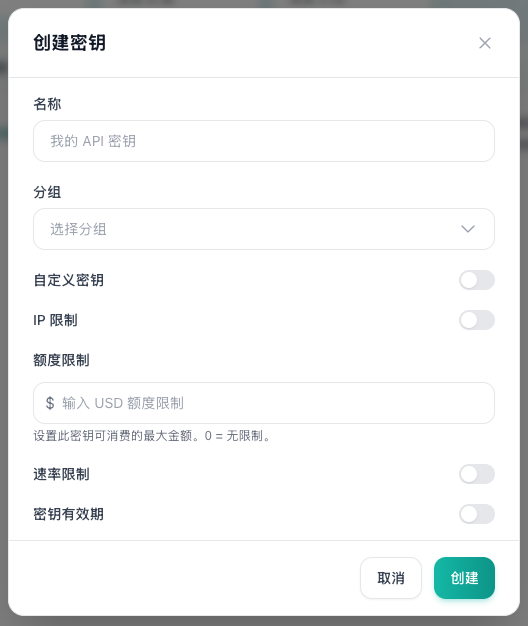
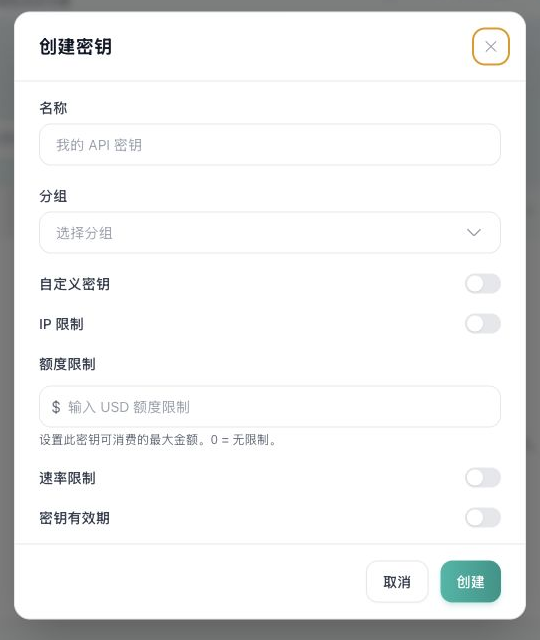
dd

diff --git a/frontend/public/user-manual/index.html b/frontend/public/user-manual/index.html
@@ -620,6 +620,7 @@
       <nav class="primary-nav" aria-label="主导航">
         <a class="nav-link" href="#overview">首页</a>
         <a class="nav-link" href="#login" aria-current="page">登录</a>
+        <a class="nav-link" href="#register">注册</a>
         <a class="nav-link" href="#tools">工具配置</a>
         <a class="nav-link" href="#code">代码调用</a>
       </nav>
@@ -633,6 +634,7 @@
       <nav class="section-nav" aria-label="页面分类">
         <a href="#overview" aria-current="page">概览</a>
         <a href="#login">登录</a>
+        <a href="#register">注册</a>
         <a href="#key">密钥</a>
         <a href="#base-url">Base URL</a>
         <a href="#windows">Windows</a>
@@ -653,6 +655,7 @@
       <h2>开始使用</h2>
       <a class="active" href="#overview">一眼看懂 LLMFerry</a>
       <a href="#login">登录控制台</a>
+      <a href="#register">注册账号</a>
       <a href="#key">创建和复制 API Key</a>
       <h2>工具配置</h2>
       <a href="#base-url">Base URL 怎么填</a>
@@ -695,7 +698,7 @@
             </div>
             <div class="quick-card">
               <strong>优先测试模型</strong>
-              <span>先用管理员指定模型；没有指定时可先尝试 <code>gpt-5.5</code>。</span>
+              <span>先用销售提供的模型；没有明确说明时可先尝试 <code>gpt-5.5</code>。</span>
             </div>
           </div>
 
@@ -705,26 +708,25 @@
           </div>
 
           <figure>
-            <img src="/user-manual/assets/llmferry-01-home.png" alt="LLMFerry 首页：简链服务、立即开始按钮和已支持模型列表">
+            <img src="assets/llmferry-01-home.png" alt="LLMFerry 首页：简链服务、立即开始按钮和功能标签">
             <figcaption>LLMFerry 首页：确认进入的是“简链服务”站点。</figcaption>
           </figure>
         </section>
 
         <section id="login">
           <h2>登录 LLMFerry</h2>
-          <p>普通用户进入控制台后，主要关注「API 密钥」「使用记录」「渠道状态」「我的订阅」等个人使用菜单。管理员菜单不用操作。</p>
+          <p>普通用户进入控制台后，主要关注左侧「我的账户」下面的「API 密钥」「使用记录」「渠道状态」「我的订阅」等个人使用菜单。</p>
 
           <dl class="response-preview">
             <dt>登录地址</dt><dd id="login-url">https://www.llmferry.com/home</dd>
-            <dt>账号</dt><dd id="login-account">admin@sub2api.local</dd>
-            <dt>密码</dt><dd id="login-password">LS123xzhmu</dd>
+            <dt>账号</dt><dd>使用自己注册的邮箱，或由您的销售协助开通的账号</dd>
+            <dt>密码</dt><dd>使用自己设置的密码；手册不提供公共密码</dd>
+            <dt>注册入口</dt><dd>登录页底部点击「还没有账户？注册」</dd>
             <dt>站点名称</dt><dd>简链服务</dd>
           </dl>
 
           <div class="toc-tools copy-row">
             <button class="copy-button" type="button" data-copy-target="login-url">复制地址</button>
-            <button class="copy-button" type="button" data-copy-target="login-account">复制账号</button>
-            <button class="copy-button" type="button" data-copy-target="login-password">复制密码</button>
           </div>
 
           <div class="steps">
@@ -733,8 +735,12 @@
               <p>在浏览器访问 <code>https://www.llmferry.com/home</code>。如果页面没有自动跳到登录页，点击右上角「登录」。</p>
             </div>
             <div class="step">
-              <h3>输入账号密码</h3>
-              <p>使用管理员提供的账号登录。正式给客户使用时，建议换成每位用户自己的企业账号。</p>
+              <h3>没有账号先注册</h3>
+              <p>在登录页底部点击「还没有账户？注册」。具体填写方式见下一节「注册账号」。</p>
+            </div>
+            <div class="step">
+              <h3>已有账号直接登录</h3>
+              <p>使用自己注册的邮箱和密码登录。不要使用他人的账号，也不要多人共用同一个账号。</p>
             </div>
             <div class="step">
               <h3>找到个人菜单</h3>
@@ -743,13 +749,63 @@
           </div>
 
           <div class="callout">
-            <strong>给客户发正式版前先确认账号策略</strong>
-            <p>如果这个账号只用于演示或培训，请不要把它长期公开到客户群；正式环境建议让客户使用企业邮箱或单独账号登录。</p>
+            <strong>不要共享账号</strong>
+            <p>每位用户都应使用自己的账号登录，便于密钥、用量和费用独立管理。如果注册失败或看不到注册入口，请联系您的销售协助开通。</p>
           </div>
 
           <figure>
-            <img src="/user-manual/assets/llmferry-02-login.png" alt="LLMFerry 登录页：输入邮箱和密码后点击登录">
-            <figcaption>登录页：输入企业邮箱和密码，点击「登录」。</figcaption>
+            <img src="assets/llmferry-02-login.png" alt="LLMFerry 登录页：输入邮箱和密码后点击登录">
+            <figcaption>登录页：已有账号直接登录；没有账号时点击底部「注册」。</figcaption>
+          </figure>
+        </section>
+
+        <section id="register">
+          <h2>注册账号</h2>
+          <p>如果还没有自己的 LLMFerry 账号，先从登录页进入注册页。注册时只填写个人或企业邮箱和自己设置的密码；优惠码没有则留空。</p>
+
+          <dl class="response-preview">
+            <dt>注册入口</dt><dd>登录页底部点击「还没有账户？注册」</dd>
+            <dt>直接地址</dt><dd id="register-url">https://www.llmferry.com/register</dd>
+            <dt>邮箱</dt><dd>建议使用常用邮箱，便于后续识别账号和处理服务开通</dd>
+            <dt>密码</dt><dd>自己设置并妥善保存，页面要求至少 6 个字符</dd>
+            <dt>优惠码</dt><dd>可选；销售没有单独提供时，直接留空</dd>
+          </dl>
+
+          <div class="toc-tools copy-row">
+            <button class="copy-button" type="button" data-copy-target="register-url">复制注册地址</button>
+          </div>
+
+          <div class="steps">
+            <div class="step">
+              <h3>进入注册页</h3>
+              <p>打开 <code>https://www.llmferry.com/home</code>，在登录页底部点击「还没有账户？注册」。也可以直接访问 <code>https://www.llmferry.com/register</code>。</p>
+            </div>
+            <div class="step">
+              <h3>填写邮箱</h3>
+              <p>在「邮箱」输入框填写自己的常用邮箱。不要填写他人的邮箱，也不要多人共用同一个邮箱账号。</p>
+            </div>
+            <div class="step">
+              <h3>设置密码</h3>
+              <p>在「密码」输入框设置自己的登录密码。密码至少 6 个字符，建议不要和其他系统使用完全相同的密码。</p>
+            </div>
+            <div class="step">
+              <h3>优惠码没有就留空</h3>
+              <p>「优惠码」是可选项。只有您的销售明确给了优惠码时才填写；没有拿到优惠码时，保持空白即可。</p>
+            </div>
+            <div class="step">
+              <h3>创建账户并登录</h3>
+              <p>点击「创建账户」。注册成功后回到登录页，用刚才填写的邮箱和密码登录控制台。</p>
+            </div>
+          </div>
+
+          <div class="callout">
+            <strong>注册失败怎么办</strong>
+            <p>如果看不到注册入口、注册失败、提示邮箱不可用，或登录后看不到「API 密钥」菜单，请联系您的销售协助开通账号或确认权限。</p>
+          </div>
+
+          <figure>
+            <img src="assets/llmferry-03-register.png" alt="LLMFerry 注册页：填写邮箱、密码和可选优惠码后创建账户">
+            <figcaption>注册页：填写自己的邮箱和密码；优惠码没有则留空。</figcaption>
           </figure>
         </section>
 
@@ -760,11 +816,11 @@
           <div class="steps">
             <div class="step">
               <h3>进入 API 密钥页面</h3>
-              <p>登录后，在左侧菜单找到「API 密钥」。如果看不到，请联系管理员确认账号权限或套餐分组。</p>
+              <p>登录后，在左侧「我的账户」区域找到「API 密钥」。如果看不到，请联系您的销售确认账号开通、套餐或分组。</p>
             </div>
             <div class="step">
               <h3>点击创建密钥</h3>
-              <p>名称写清楚用途；分组选择管理员指定的分组；普通用户通常不用开启「自定义密钥」。</p>
+              <p>名称写清楚用途；分组选择页面可用的分组。如果不确定选哪个分组，请联系您的销售确认。普通用户通常不用开启「自定义密钥」。</p>
             </div>
             <div class="step">
               <h3>复制 sk- 开头的密钥</h3>
@@ -779,13 +835,13 @@
           <div class="figure-grid">
             <div class="figure-card">
               <figure>
-                <img src="/user-manual/assets/llmferry-03-api-key-page.png" alt="LLMFerry API 密钥页面：左侧进入 API 密钥，右上角创建密钥">
-                <figcaption>API 密钥页面：入口和创建按钮位置示意。</figcaption>
+                <img src="assets/llmferry-03-api-key-page.png" alt="LLMFerry API 密钥页面：普通用户侧栏、空状态和创建密钥按钮">
+                <figcaption>普通用户 API 密钥页面：没有密钥时会看到空状态，可点击右上角或页面中间的「创建密钥」。</figcaption>
               </figure>
             </div>
             <div class="figure-card">
               <figure>
-                <img src="/user-manual/assets/llmferry-04-create-key-modal.png" alt="LLMFerry 创建密钥弹窗：填写名称、选择分组和配置限制">
+                <img src="assets/llmferry-04-create-key-modal.png" alt="LLMFerry 创建密钥弹窗：填写名称、选择分组和配置限制">
                 <figcaption>创建密钥：重点确认名称、分组、额度和有效期。</figcaption>
               </figure>
             </div>
@@ -830,7 +886,7 @@
             <dt>Provider</dt><dd>OpenAI Compatible / OpenAI 兼容</dd>
             <dt>API Key</dt><dd>粘贴你的 sk-... 密钥</dd>
             <dt>Base URL</dt><dd>https://www.llmferry.com/v1</dd>
-            <dt>Model</dt><dd>先填管理员指定模型；没有指定时先试 gpt-5.5</dd>
+            <dt>Model</dt><dd>先填销售提供的模型；没有明确说明时先试 gpt-5.5</dd>
             <dt>测试问题</dt><dd>Reply with exactly: pong</dd>
           </dl>
 
@@ -838,7 +894,7 @@
           <p>在「API 密钥」页面找到密钥，点击「使用密钥」，选择 Codex CLI 和 Windows。按页面提示复制到下面两个文件。</p>
 
           <figure>
-            <img src="/user-manual/assets/llmferry-06-use-key-modal-windows.png" alt="LLMFerry 使用 API 密钥弹窗：Windows 配置示例">
+            <img src="assets/llmferry-06-use-key-modal-windows.png" alt="LLMFerry 使用 API 密钥弹窗：Windows 配置示例">
             <figcaption>使用 API 密钥弹窗：Windows 用户选择「Windows」后复制对应配置。</figcaption>
           </figure>
 
@@ -904,7 +960,7 @@ $env:CLAUDE_CODE_ATTRIBUTION_HEADER = "0"</code></pre>
             <dt>Provider</dt><dd>OpenAI Compatible / OpenAI 兼容</dd>
             <dt>API Key</dt><dd>粘贴你的 sk-... 密钥</dd>
             <dt>Base URL</dt><dd>https://www.llmferry.com/v1</dd>
-            <dt>Model</dt><dd>先填管理员指定模型；没有指定时先试 gpt-5.5</dd>
+            <dt>Model</dt><dd>先填销售提供的模型；没有明确说明时先试 gpt-5.5</dd>
             <dt>测试问题</dt><dd>Reply with exactly: pong</dd>
           </dl>
 
@@ -912,7 +968,7 @@ $env:CLAUDE_CODE_ATTRIBUTION_HEADER = "0"</code></pre>
           <p>在「API 密钥」页面点击「使用密钥」，选择 Codex CLI 和 macOS / Linux。配置目录是 <code>~/.codex</code>；如果文件夹不存在，先运行 <code>mkdir -p ~/.codex</code>。</p>
 
           <figure>
-            <img src="/user-manual/assets/llmferry-05-use-key-modal-macos.png" alt="LLMFerry 使用 API 密钥弹窗：macOS 和 Linux 配置示例">
+            <img src="assets/llmferry-05-use-key-modal-macos.png" alt="LLMFerry 使用 API 密钥弹窗：macOS 和 Linux 配置示例">
             <figcaption>使用 API 密钥弹窗：macOS 用户选择「macOS / Linux」后复制对应配置。</figcaption>
           </figure>
 
@@ -946,7 +1002,7 @@ goals = true</code></pre>
           <p>Finder 打开配置目录：按 <code>Command + Shift + G</code>，输入 <code>~/.codex</code>。</p>
 
           <h3>方式 C：Claude Code / CC Switch</h3>
-          <p>macOS 用户也推荐优先用 CC Switch。供应商名称填 <code>LLMFerry</code>，Base URL 填 <code>https://www.llmferry.com/</code>，模型映射按管理员要求填写。</p>
+          <p>macOS 用户也推荐优先用 CC Switch。供应商名称填 <code>LLMFerry</code>，Base URL 填 <code>https://www.llmferry.com/</code>，模型映射按销售提供的说明填写。</p>
 
           <div class="code-block">
             <div class="code-caption"><span>macOS 终端临时生效</span><button class="copy-button" type="button" data-copy-target="code-mac-claude-env">复制</button></div>
@@ -983,7 +1039,7 @@ export CLAUDE_CODE_ATTRIBUTION_HEADER=0</code></pre>
             </div>
             <div class="step">
               <h3>使用 Claude Code</h3>
-              <p>优先用 CC Switch；管理员要求手动配置时，再写环境变量或 <code>settings.json</code>。</p>
+              <p>优先用 CC Switch；如果销售提供的说明要求手动配置，再写环境变量或 <code>settings.json</code>。</p>
             </div>
           </div>
         </section>
@@ -995,7 +1051,7 @@ export CLAUDE_CODE_ATTRIBUTION_HEADER=0</code></pre>
           <dl class="response-preview">
             <dt>API Key</dt><dd>你的 sk-... 密钥</dd>
             <dt>Base URL</dt><dd>https://www.llmferry.com/v1</dd>
-            <dt>模型</dt><dd>管理员指定模型，或先用 gpt-5.5 测试</dd>
+            <dt>模型</dt><dd>销售提供的模型，或先用 gpt-5.5 测试</dd>
             <dt>协议</dt><dd>OpenAI 兼容接口</dd>
           </dl>
 
@@ -1080,7 +1136,7 @@ $env:OPENAI_BASE_URL = "https://www.llmferry.com/v1"</code></pre>
 
         <section id="usage">
           <h2>查看用量和费用</h2>
-          <p>配置成功后，回到控制台的「使用记录」查看每次调用的模型、时间、Token 和费用。如果发现异常高用量，先禁用对应 API Key，再联系管理员排查。</p>
+          <p>配置成功后，回到控制台的「使用记录」查看每次调用的模型、时间、Token 和费用。如果发现异常高用量，先禁用对应 API Key，再联系您的销售协助确认。</p>
         </section>
 
         <section id="faq">
@@ -1088,9 +1144,9 @@ $env:OPENAI_BASE_URL = "https://www.llmferry.com/v1"</code></pre>
           <dl class="response-preview">
             <dt>401</dt><dd>API Key 没填、填错、复制少字符，或认证格式不对。重新复制完整 sk-... 再试。</dd>
             <dt>404</dt><dd>Base URL 或模型名写错。OpenAI 兼容场景要用 https://www.llmferry.com/v1。</dd>
-            <dt>429</dt><dd>请求太频繁或额度受限。稍等再试，或联系管理员调整额度、并发或速率限制。</dd>
-            <dt>5xx</dt><dd>服务临时异常。稍后重试；如果一直失败，查看渠道状态或联系管理员。</dd>
-            <dt>在家不能用</dt><dd>可能密钥开启了 IP 限制。连接公司 VPN 后再试，或联系管理员调整。</dd>
+            <dt>429</dt><dd>请求太频繁或额度受限。稍等再试；如果持续出现，请联系您的销售确认额度、并发或速率限制。</dd>
+            <dt>5xx</dt><dd>服务临时异常。稍后重试；如果一直失败，请查看渠道状态，或联系您的销售协助确认。</dd>
+            <dt>当前网络无法使用</dt><dd>可能是账号、额度、IP 限制或网络策略导致。换一个稳定网络重试；仍失败时联系您的销售确认。</dd>
             <dt>前端网页能写 Key 吗</dt><dd>不能。前端、浏览器 JavaScript、移动端安装包都容易暴露 Key，应由后端代调。</dd>
           </dl>
         </section>
@@ -1103,7 +1159,7 @@ $env:OPENAI_BASE_URL = "https://www.llmferry.com/v1"</code></pre>
             <li>能复制到以 <code>sk-</code> 开头的 API Key</li>
             <li>IDE 或工具里 API Key 已填写完整</li>
             <li>Base URL 没写错，尤其注意不要把 <code>/home</code> 填进去</li>
-            <li>模型先用管理员指定模型或 <code>gpt-5.5</code> 测试</li>
+            <li>模型先用销售提供的模型或 <code>gpt-5.5</code> 测试</li>
             <li>测试问题 <code>Reply with exactly: pong</code> 能正常返回</li>
             <li>「使用记录」里能看到刚才的调用记录</li>
           </ul>
@@ -1125,6 +1181,7 @@ $env:OPENAI_BASE_URL = "https://www.llmferry.com/v1"</code></pre>
       <strong>本页内容</strong>
       <a class="active" href="#overview">一眼看懂</a>
       <a href="#login">登录控制台</a>
+      <a href="#register">注册账号</a>
       <a href="#key">创建 API Key</a>
       <a href="#base-url">Base URL</a>
       <a href="#windows">Windows 配置</a>

diff --git a/frontend/src/i18n/locales/en.ts b/frontend/src/i18n/locales/en.ts
@@ -49,7 +49,7 @@ export default {
       unifiedGateway: 'One-Click Access',
       unifiedGatewayDesc: 'Get a single API key to call all connected AI models. No separate applications needed.',
       multiAccount: 'Always Reliable',
-      multiAccountDesc: 'Smart routing across multiple upstream accounts with automatic failover. Say goodbye to errors.',
+      multiAccountDesc: 'Smart routing across multiple providers with automatic failover. Say goodbye to errors.',
       balanceQuota: 'Pay What You Use',
       balanceQuotaDesc: 'Usage-based billing with quota limits. Full visibility into team consumption.'
     },

diff --git a/frontend/src/i18n/locales/zh.ts b/frontend/src/i18n/locales/zh.ts
@@ -49,7 +49,7 @@ export default {
       unifiedGateway: '一键接入',
       unifiedGatewayDesc: '获取一个 API 密钥，即可调用所有已接入的 AI 模型，无需分别申请。',
       multiAccount: '稳定可靠',
-      multiAccountDesc: '智能调度多个上游账号，自动切换和负载均衡，告别频繁报错。',
+      multiAccountDesc: '智能调度多个 Provider，自动切换和负载均衡，告别频繁报错。',
       balanceQuota: '用多少付多少',
       balanceQuotaDesc: '按实际使用量计费，支持设置配额上限，团队用量一目了然。'
     },
